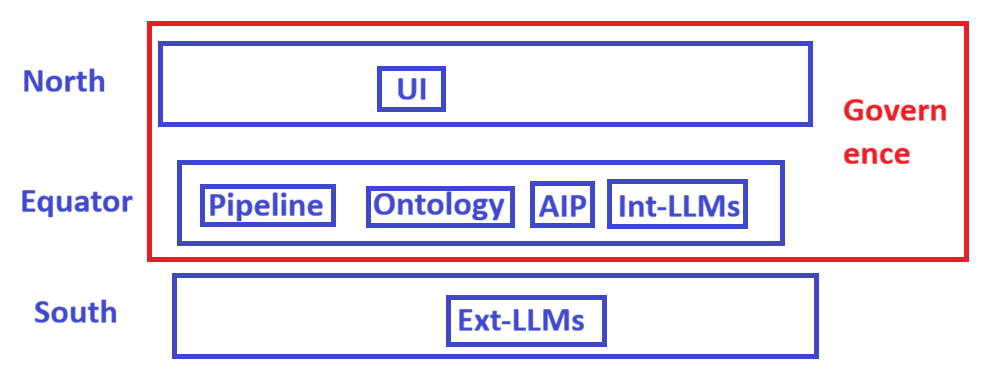
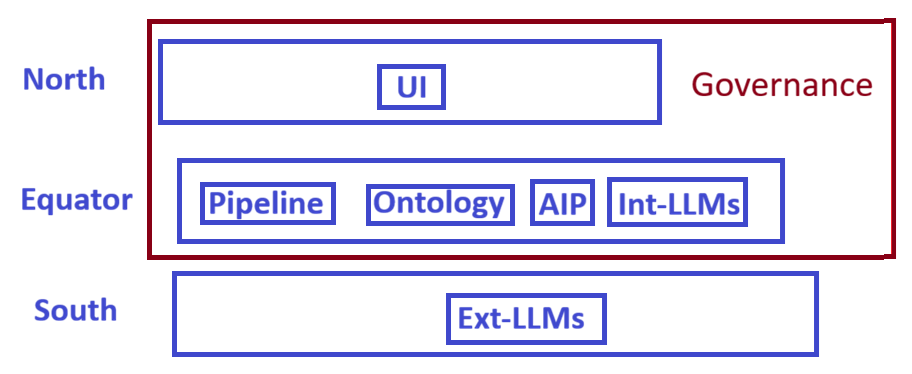
tue 001

Changed region(s): [[0.0, 0.0294, 1.0, 0.9706], [0.4298, 0.7647, 0.6754, 0.9412]]

diff --git a/_includes/footer.html b/_includes/footer.html
@@ -10,7 +10,7 @@
       <a href="https://github.com/terrytaylorbonn?tab=repositories">Git</a> &middot;
       <a href="https://www.linkedin.com/in/terry-taylor-biz">LinkedIn</a> &middot;
       <a href="https://www.youtube.com/@ziptieai">Youtube</a> &middot;
-      26.1019
+      26.1020
     </div>
   </div>
 

diff --git a/index.md b/index.md
@@ -7,7 +7,7 @@ title: Home
 
 _Latest updates_
 
-
+- _(26.1020): **[The future of programming Foundry (and documentation) is here today (WIP)](/future_foundry_and_docs/)**._ 
 - _(26.1019): **[2.1 ZAI start-to-finish demo project (WIP)](/3c.2_pal_initial_demo_ZAI/)**. This page has been **a big goal of mine since I started using Foundry**. Its something I could not find elsewhere: A demo that focuses on the mechanics of using Foundry, from an empty project. This is how you want to get started with Foundry._
 - _(26.1017): On page **[00 Why Foundry?](/pal_concepts_why_foundry/)** a new section **Comparing PC and Foundry to understand ontology**_
 - _(26.1011): On page **[3c Enterprise](/pal/)** a new section **0 Core Foundry Enterprise Concepts**_
